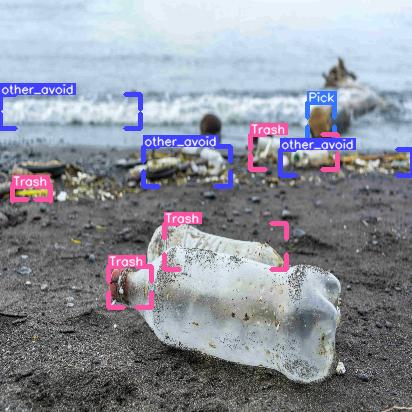
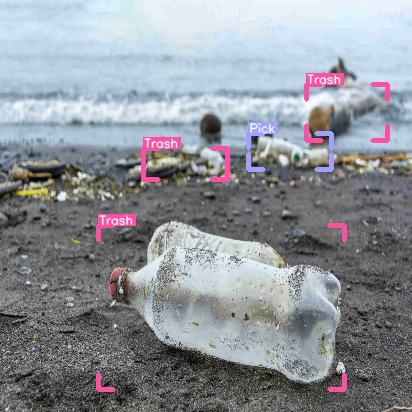
now with real NYC images (some errors shown)

diff --git a/main.py b/main.py
@@ -11,9 +11,9 @@ VIDEO_NAME = "media/trash v2.mp4"
 
 ##############################################
 
-ann_video(VIDEO_NAME, model_YOLO, .1, out_location = "media")
+# ann_video(VIDEO_NAME, model_YOLO, .1, out_location = "media")
 
 # pass in image
 
-IMAGE_NAME = "media/trash.jpg"
-out = ann_img(IMAGE_NAME, model_YOLO)
+IMAGE_NAME = "media/NYC_1.jpg"
+out = ann_img(IMAGE_NAME, model_YOLO, conf_level=.2, dest = "media")

diff --git a/dep.py b/dep.py
@@ -126,14 +126,14 @@ def ann_img_helper(im: Image, model, label_annotator = sv.LabelAnnotator(text_sc
         scene=annotated_image, detections=detections, labels = used_labels if not name_labels else None)
     return annotated_image, num_oysters, tot_time, detections, det_prev
 
-def ann_img(fname, model, conf_level = 0.05):
+def ann_img(fname, model, conf_level = 0.05, dest = "."):
         im = Image.open(fname)
         np_img = np.array(im)
         np_img_rsz = cv2.resize(np_img, (412, 412))
         good_im = Image.fromarray(np_img_rsz)
         out = ann_img_helper(good_im, model, conf_level = conf_level)
         fname_out = get_filename(fname).rsplit(".")[0] + "_annotated." + get_ext(fname)
-        Image.fromarray(out[0]).save(fname_out)
+        Image.fromarray(out[0]).save(os.path.join(dest, fname_out))
         print(f"Annotated image saved to {fname_out}")
         return out
 